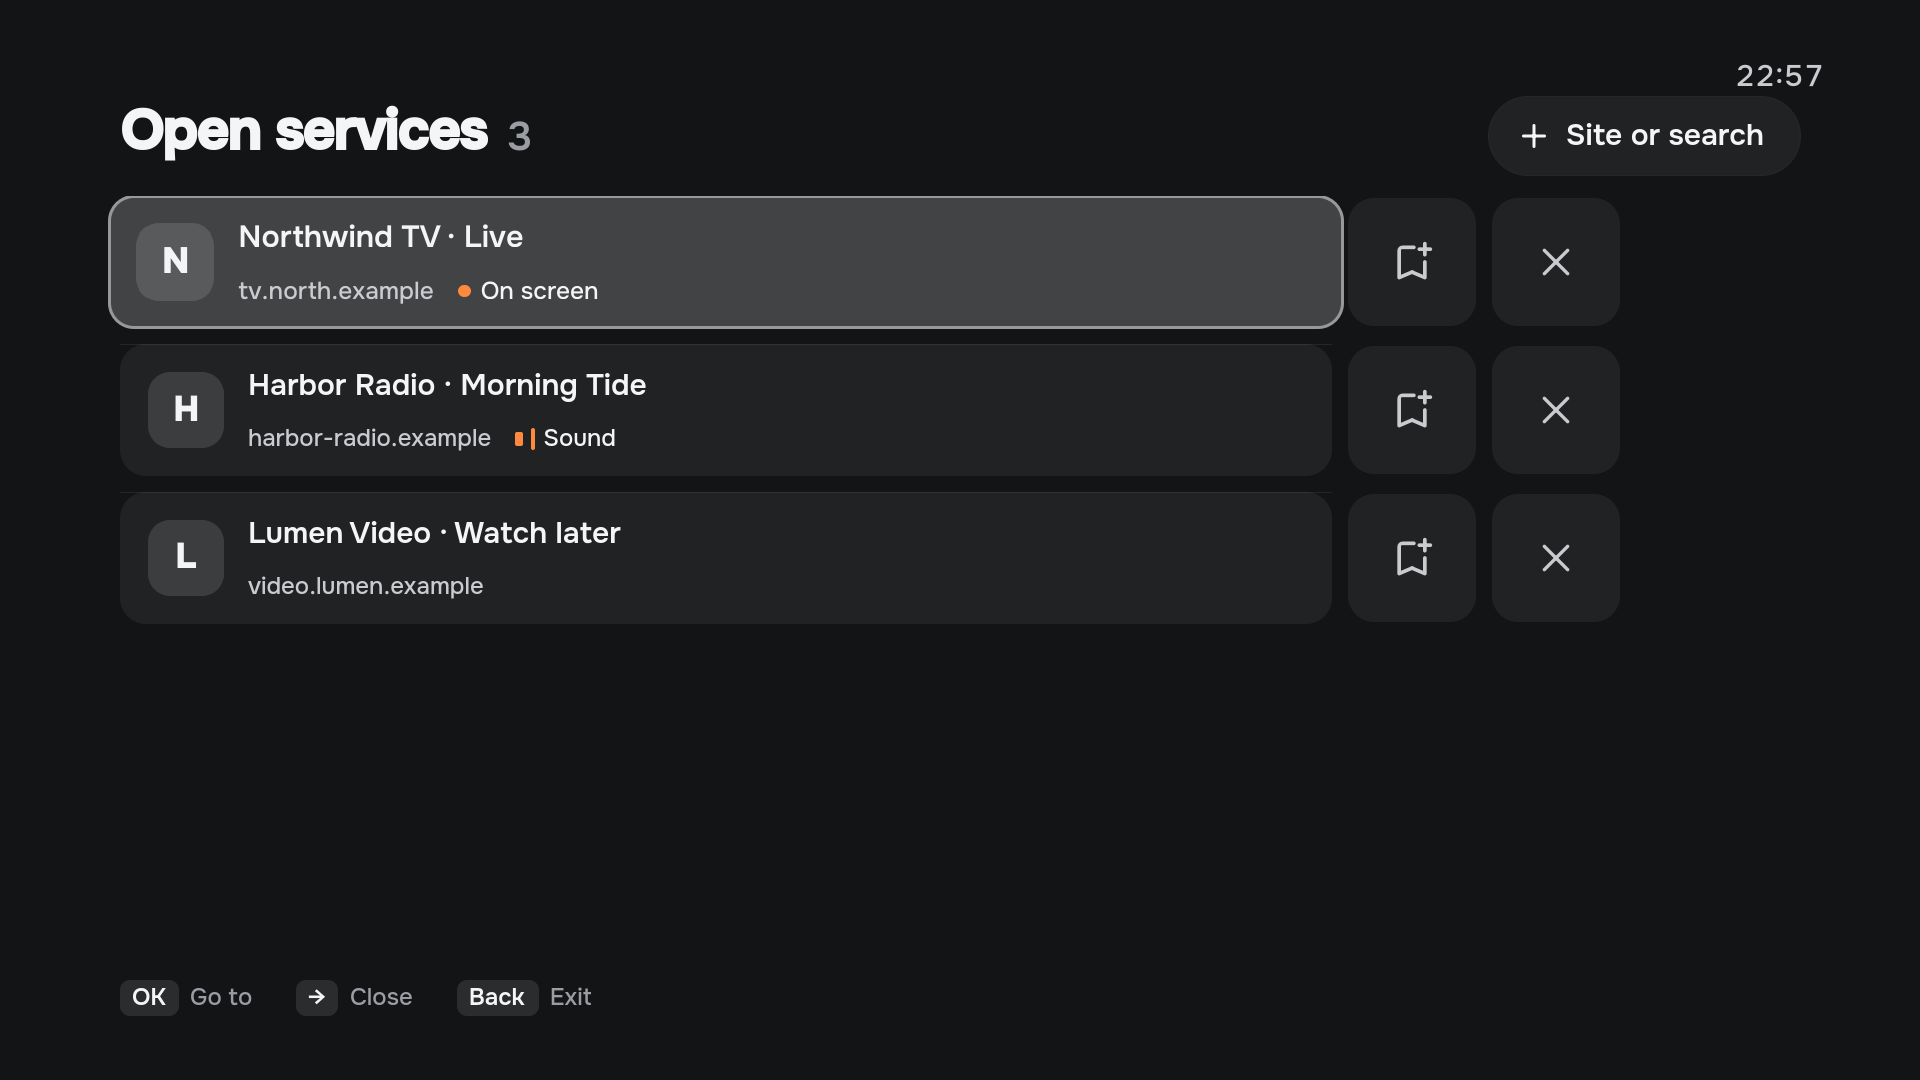
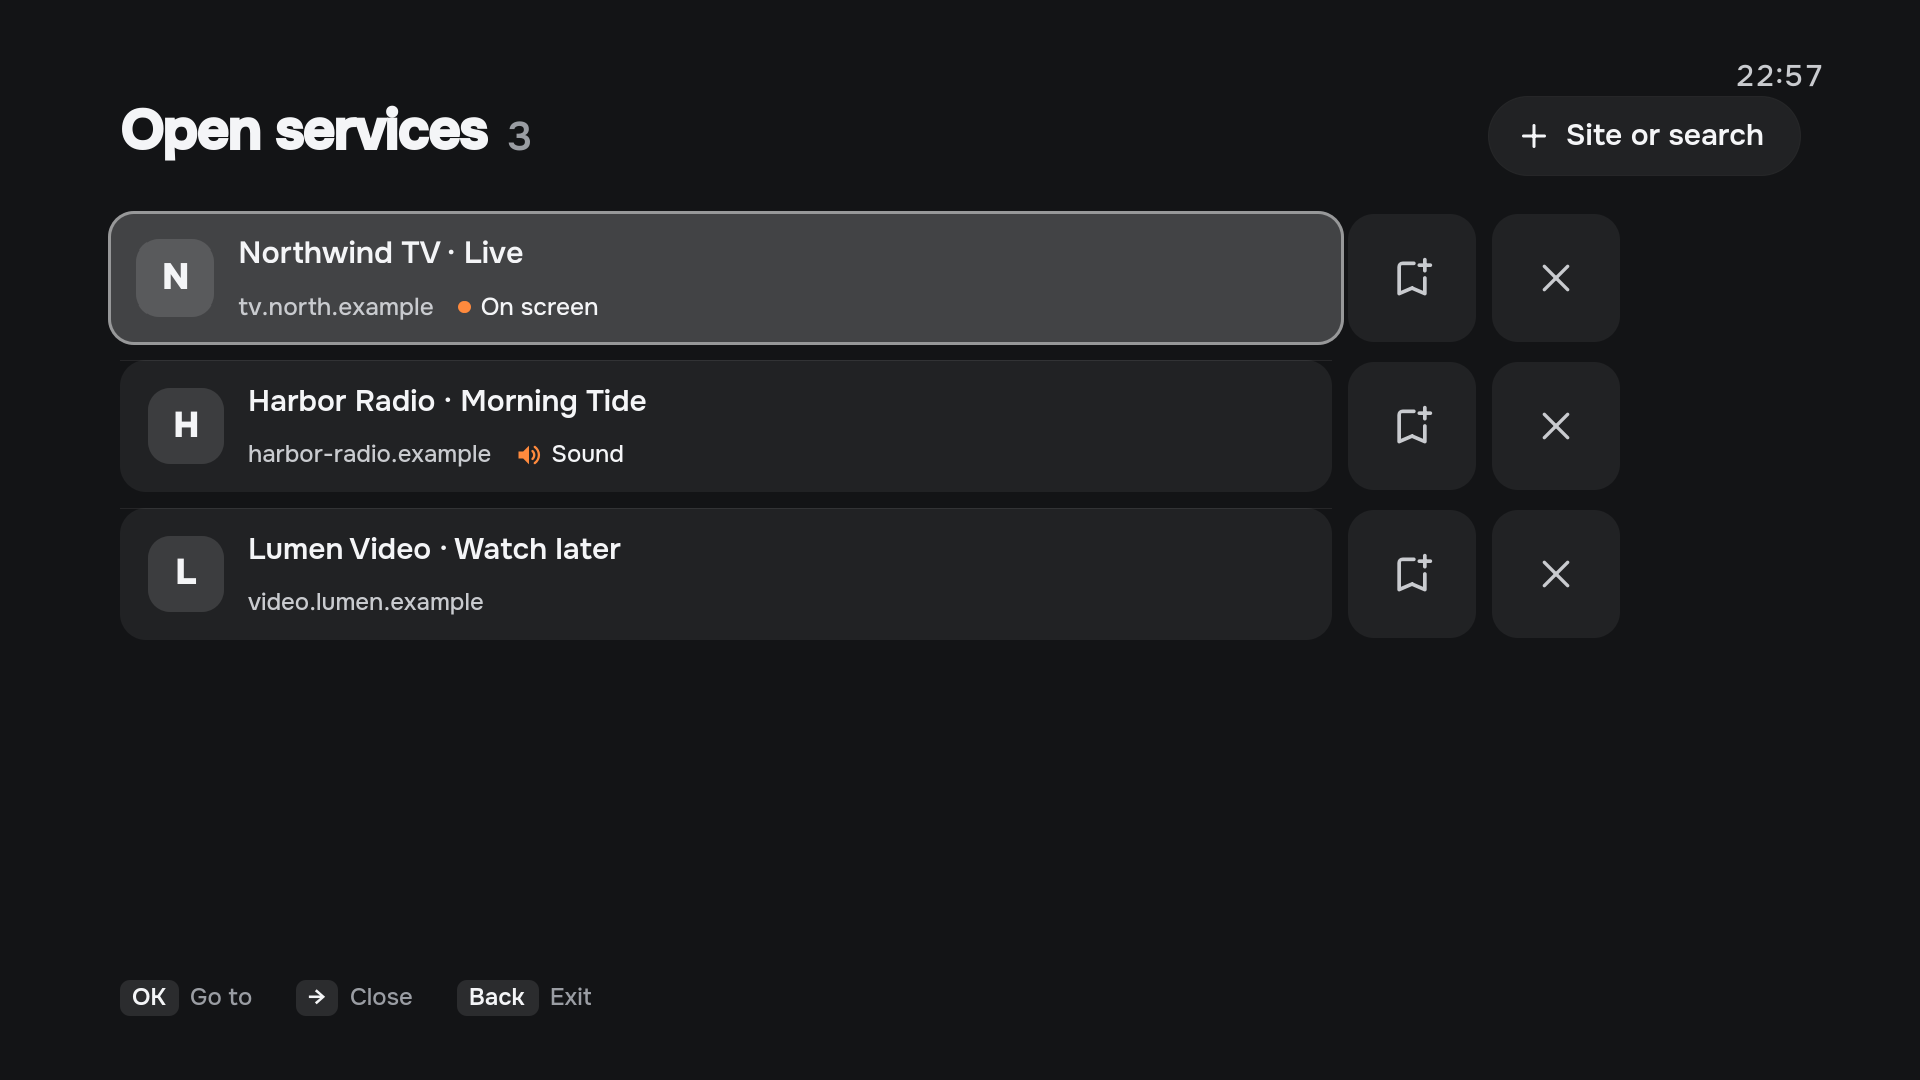
Recapture the Home and Open services showcase frames
The combined visual follow-ups change both frames: the first Open
services row moves to y 212 with the speaker sound mark (#639, #640),
and Favorites names wrap onto two lines (#656). Settings and Library
folders render unchanged.

Claude-Session: https://claude.ai/code/session_01VrE6AW19jzWQia6hqjuWub

diff --git a/docs/design/showcase/README.md b/docs/design/showcase/README.md
@@ -16,12 +16,15 @@ Only the four states selected in [#569](https://github.com/LimeBeck/arinn/issues
 are published. The owner accepted Qt 6.8 or later; a Qt 6.10-only environment is
 not required. The frames include the #564 focus-only Home menu plate, the #565
 drawn on-screen and sound marks and Site or search button, the #566 focus-only
-Settings source line and the #641 centred Settings titles.
+Settings source line and the #641 centred Settings titles. `home.png` and
+`open-services.png` were recaptured the same way with the combined visual
+follow-ups (#639 first-row position, #640 speaker icon, #656 two-line favorite
+names); `settings.png` and `library-folders.png` render unchanged.
 
 | File | Manifest state | Contents |
 | --- | --- | --- |
-| `home.png` | `home-populated` | Continue cards, fictional favorite tiles and the focused Home menu button with its plate |
-| `open-services.png` | `browser-list` | Fictional .example services with on-screen and sound marks, bookmark and close controls and the Site or search button |
+| `home.png` | `home-populated` | Continue cards, fictional favorite tiles with two-line names and the focused Home menu button with its plate |
+| `open-services.png` | `browser-list` | Fictional .example services with the on-screen mark and the speaker-icon sound mark, bookmark and close controls and the Site or search button |
 | `settings.png` | `settings-rows` | Appearance: light field, ambient timeout and text size; only the focused row shows its source line |
 | `library-folders.png` | `library-folders-list` | Inline fictional folder paths with Add path / Remove controls |
 
